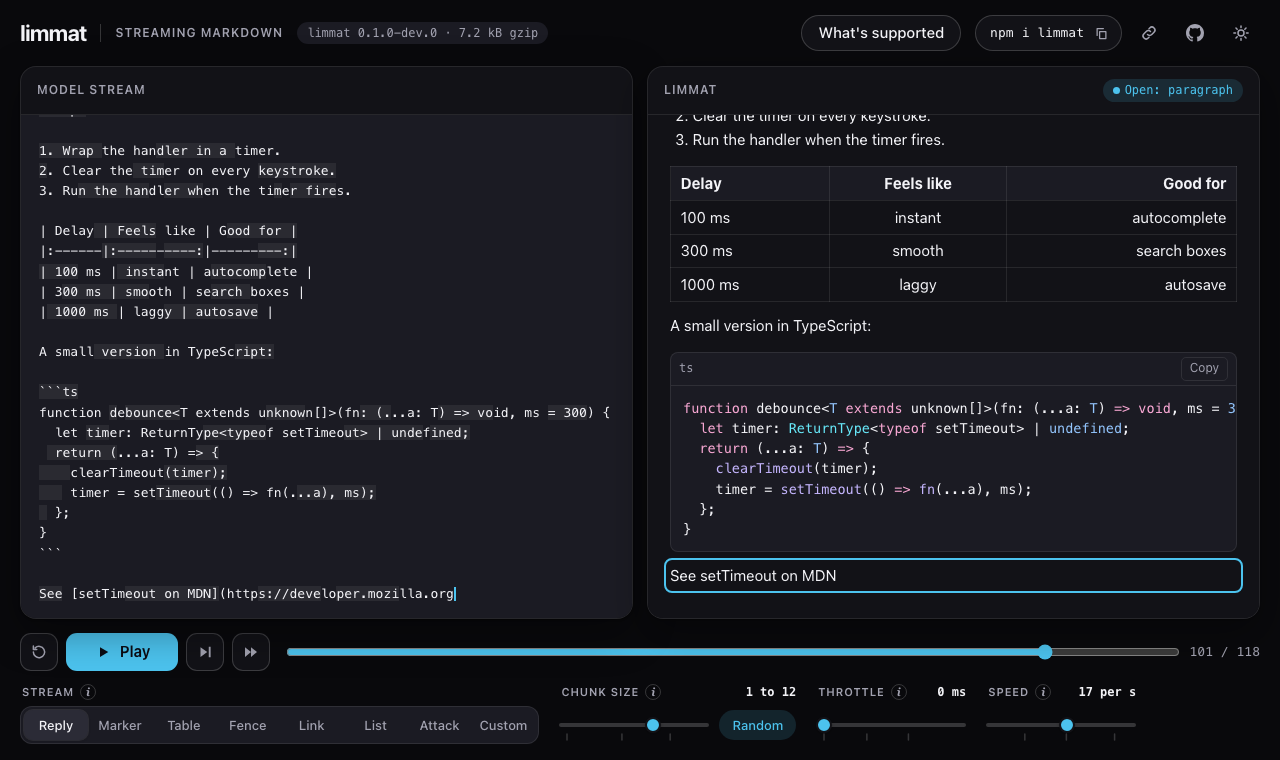
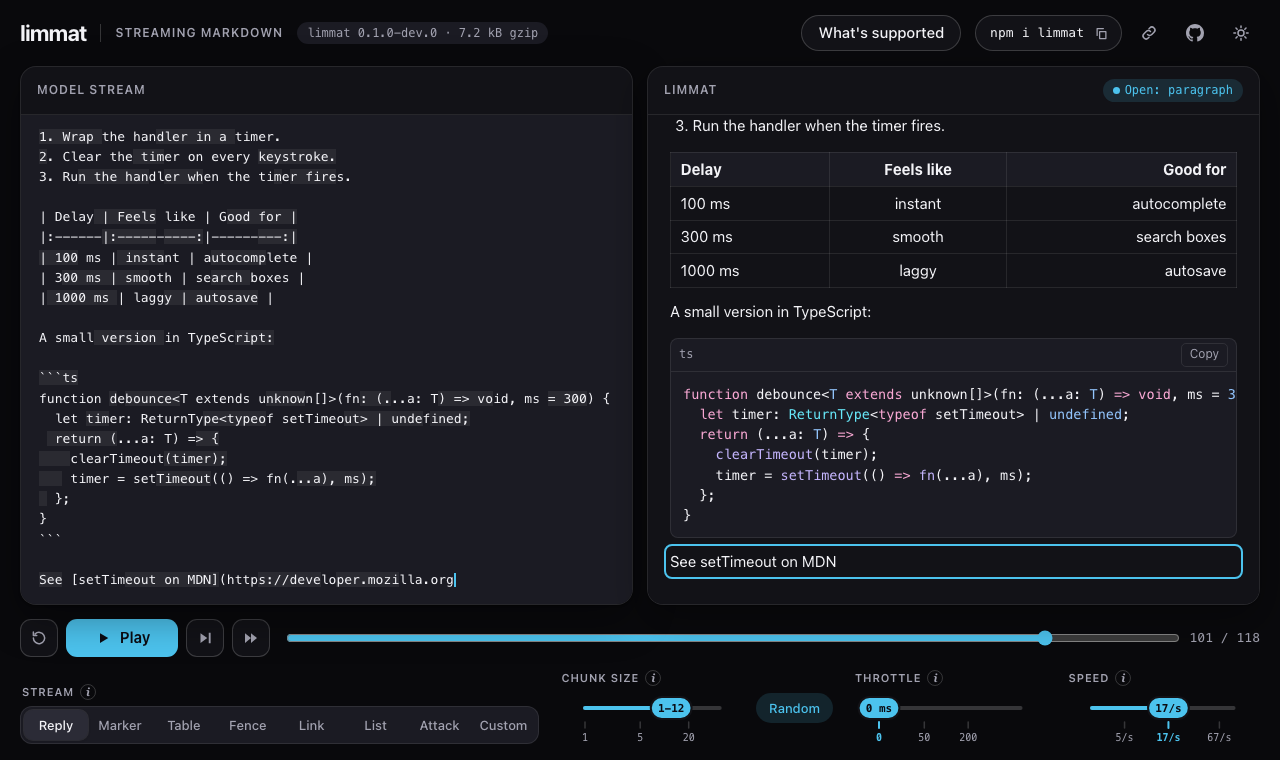
feat(demo): label every preset mark and let the sliders grow with the screen

diff --git a/browser/demo.spec.ts b/browser/demo.spec.ts
@@ -67,6 +67,7 @@ test('the scrubber rebuilds the output at a position and stays paused', async ({
 
 /** Drag a slider to a position (0 to 100), the way a person would: press on it, move, release. */
 const slide = async (page: Page, id: string, position: number) => {
+  await page.locator(`#sl-${id}`).scrollIntoViewIfNeeded();
   const box = (await page.locator(`#sl-${id}`).boundingBox())!;
   const y = box.y + 16;
   await page.mouse.move(box.x + box.width / 2, y);
@@ -162,6 +163,18 @@ test('the sliders work from the keyboard', async ({ page }) => {
   expect(await readout(page, 'throttle')).not.toBe('500 ms');
   // The stream restarts once the key presses stop, and the link follows.
   await expect.poll(() => page.url()).toMatch(/t=4\d\d/);
+});
+
+test('every preset mark shows its value without a hover', async ({ page }) => {
+  await open(page);
+  const labels = async (id: string) => page.locator(`#sl-${id} .tick text`).allTextContents();
+  expect(await labels('size')).toEqual(['1', '5', '20']);
+  expect(await labels('throttle')).toEqual(['0', '50', '200']);
+  expect(await labels('speed')).toEqual(['5/s', '17/s', '67/s']);
+  // The label of the preset in use is highlighted, and the marks still say what they mean on hover.
+  await expect(page.locator('#sl-throttle .tick').nth(1)).toHaveClass(/on/);
+  await expect(page.locator('#sl-throttle .tick title').nth(2)).toHaveText('200 ms');
+  await expect(page.locator('#sl-speed .tick title').nth(1)).toHaveText('17 chunks per second');
 });
 
 test('every control has a short tip on hover and keyboard focus', async ({ page }) => {
@@ -542,4 +555,18 @@ test('a rebuilt code block is coloured in the same frame, so editing never flash
     return document.querySelectorAll('#out .shj-syn-kwd').length;
   });
   expect(coloured).toBeGreaterThan(0);
+});
+
+test('the sliders grow with the screen and fill the width on a phone', async ({ page }) => {
+  const width = () => page.locator('#sl-throttle').evaluate((e) => e.getBoundingClientRect().width);
+  await page.setViewportSize({ width: 1280, height: 720 });
+  await open(page);
+  const laptop = await width();
+  await page.setViewportSize({ width: 1800, height: 900 });
+  await expect.poll(width).toBeGreaterThan(laptop);
+  await page.setViewportSize({ width: 390, height: 844 });
+  await expect.poll(width).toBeGreaterThan(300);
+  // The thumb still follows the pointer at this width.
+  await slide(page, 'throttle', 63);
+  await expect(page.locator('#sl-throttle')).toHaveAttribute('aria-valuetext', '200 ms');
 });

diff --git a/demo/js/sliders.js b/demo/js/sliders.js
@@ -10,7 +10,7 @@ import { s } from './state.js';
 
 const SNAP = 3; // positions
 const INSET = 26; // px kept free at each end so the widest thumb stays inside
-const H = 40;
+const H = 52;
 const MID = 16; // the track's height in the svg
 const ln = Math.log;
 const delayOfRate = (rate) => Math.min(400, Math.max(10, 1000 / rate));
@@ -25,6 +25,8 @@ const SPECS = {
       s.size = v;
     },
     text: (v = s.size) => (s.random ? `1-${v}` : String(v)),
+    mark: (v) => String(v),
+    hint: (v) => `${v} ${v === 1 ? 'character' : 'characters'}`,
     restart: true,
   },
   throttle: {
@@ -36,6 +38,8 @@ const SPECS = {
       s.throttle = v;
     },
     text: (v = s.throttle) => `${v} ms`,
+    mark: (v) => String(v),
+    hint: (v) => `${v} ms`,
     restart: true,
   },
   speed: {
@@ -48,6 +52,8 @@ const SPECS = {
       s.speed = v;
     },
     text: (v = s.speed) => `${Math.round(1000 / v)}/s`,
+    mark: (v) => `${Math.round(1000 / v)}/s`,
+    hint: (v) => `${Math.round(1000 / v)} chunks per second`,
     restart: false, // the delay is read on every tick, so the stream keeps going
   },
 };
@@ -70,12 +76,13 @@ function build(name, spec) {
     const x = `${spec.toPos(v)}%`;
     const g = svg('g', { class: 'tick' });
     const title = svg('title');
-    title.textContent = spec.text(v);
+    title.textContent = spec.hint(v);
     // A wide invisible target makes the thin mark easy to hit.
     g.append(
       title,
       svg('rect', { x, y: MID + 8, width: 18, height: H - MID - 8, transform: 'translate(-9 0)' }),
-      svg('line', { x1: x, x2: x, y1: MID + 14, y2: MID + 21 }),
+      svg('line', { x1: x, x2: x, y1: MID + 14, y2: MID + 20 }),
+      Object.assign(svg('text', { x, y: MID + 33 }), { textContent: spec.mark(v) }),
     );
     g.dataset.value = String(v);
     return { v, g };

diff --git a/demo/css/controls.css b/demo/css/controls.css
@@ -74,19 +74,26 @@
 
 /* Sliders: a thin track that fills up to a pill-shaped thumb carrying the value, and small marks at the presets. */
 .slide {
-  min-width: 176px;
+  flex: 1 1 190px;
+  min-width: 190px;
+  max-width: 360px;
+}
+.slide:has(.rand) {
+  flex-basis: 270px;
+  max-width: 460px;
 }
 .slide-row {
   display: flex;
   align-items: flex-end;
   gap: 10px;
-  height: 40px;
+  width: 100%;
+  height: 52px;
 }
 .slider {
   position: relative;
-  flex: none;
-  width: 176px;
-  height: 40px;
+  flex: 1 1 176px;
+  min-width: 176px;
+  height: 52px;
   border-radius: 12px;
   cursor: pointer;
   touch-action: none;
@@ -105,7 +112,7 @@
   top: 0;
   left: 26px;
   width: calc(100% - 52px);
-  height: 40px;
+  height: 52px;
   overflow: visible;
 }
 .track,
@@ -144,6 +151,20 @@
 }
 .tick:hover line {
   stroke: var(--accent);
+}
+.tick text {
+  fill: var(--muted);
+  font: 500 10px var(--mono);
+  text-anchor: middle;
+  pointer-events: none;
+  transition: fill var(--fast);
+}
+.tick:hover text {
+  fill: var(--fg);
+}
+.tick.on text {
+  fill: var(--accent);
+  font-weight: 700;
 }
 .tick.on line {
   stroke: var(--accent);

diff --git a/demo/css/layout.css b/demo/css/layout.css
@@ -229,6 +229,10 @@ body {
   .group .seg {
     width: 100%;
   }
+  .slide,
+  .slide:has(.rand) {
+    max-width: none;
+  }
   .dock .seg {
     grid-template-columns: repeat(var(--n), minmax(0, 1fr));
   }
